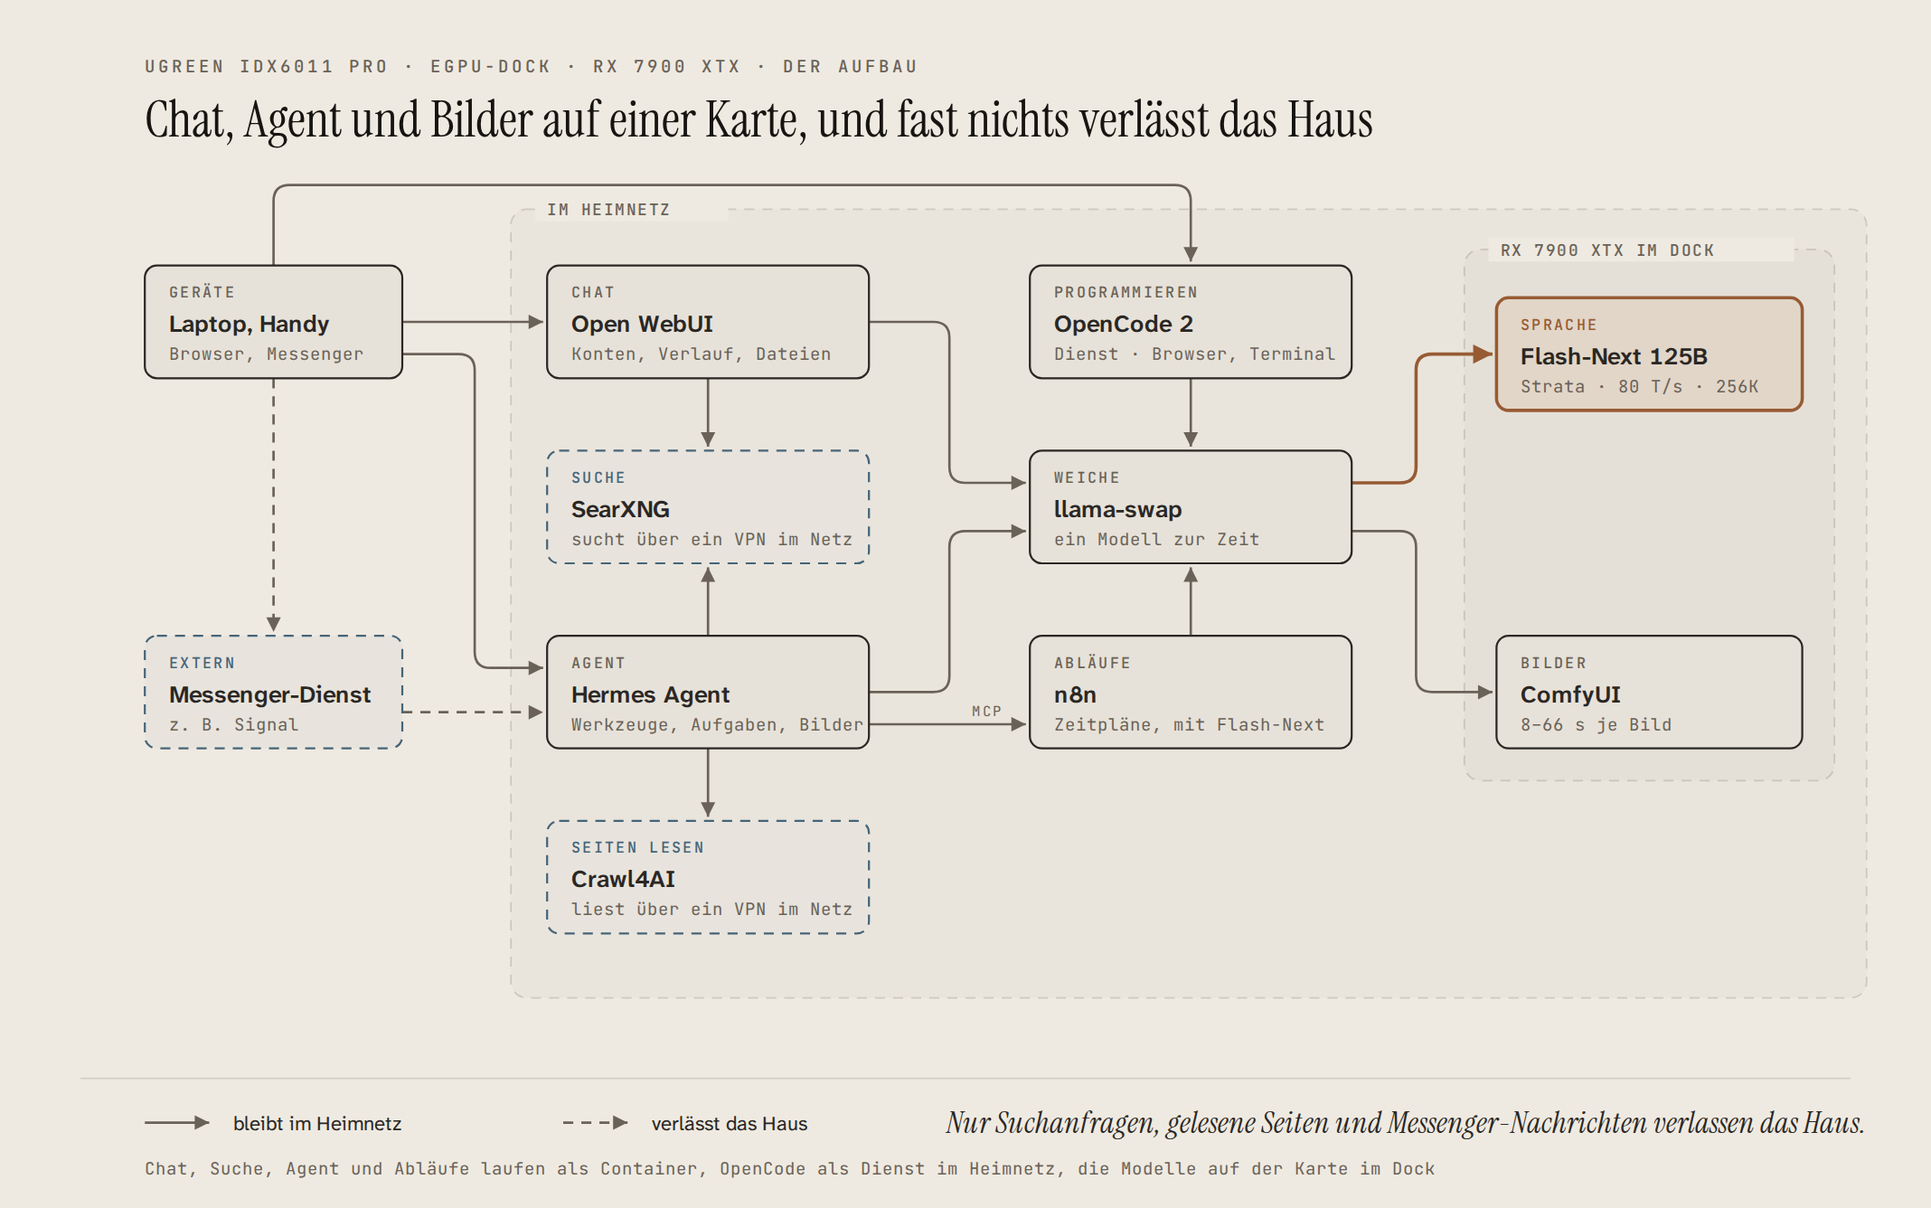
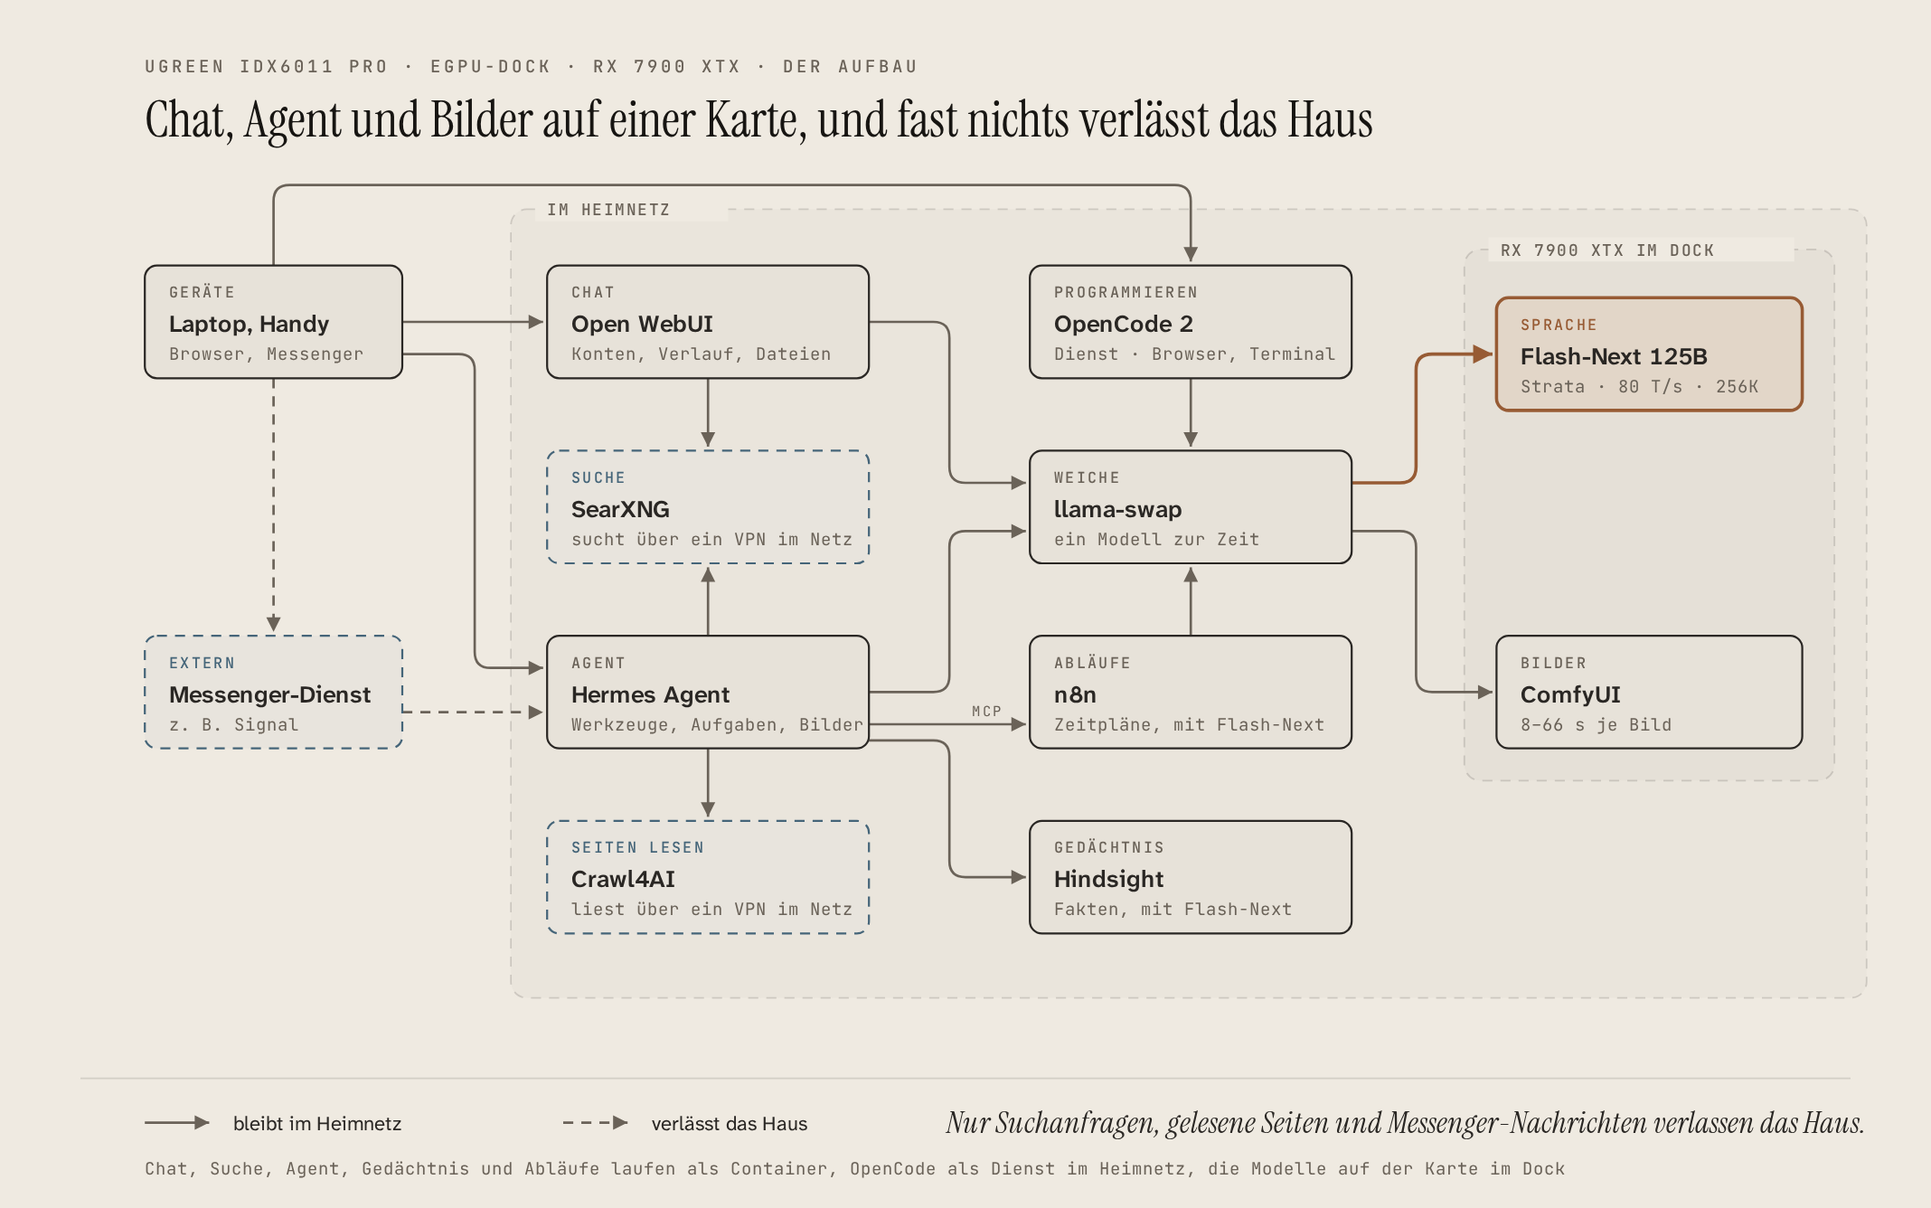
Aufbau: Hindsight als Gedächtnis des Agenten im Schaubild und in der Agenten-Karte

diff --git a/bilder/html/aufbau-en.html b/bilder/html/aufbau-en.html
@@ -18,7 +18,7 @@
   <div class="frame"><div class="scroll">
     <svg viewBox="0 0 960 600" xmlns="http://www.w3.org/2000/svg" role="img" aria-labelledby="aufbau-en-title aufbau-en-desc">
       <title id="aufbau-en-title">Chat, agent and pictures on one card, and almost nothing lea</title>
-      <desc id="aufbau-en-desc">Laptop and phone talk to Open WebUI and to Hermes Agent in the home network, to the agent also through a messenger service; both ask llama-swap, as does OpenCode 2, which runs as a service in the home network and is used from the browser or the terminal. Hermes starts fixed workflows in n8n through MCP, which in turn ask Flash-Next through llama-swap. llama-swap loads either the language model or ComfyUI on the RX 7900 XTX. The agent reads web pages through Crawl4AI on the iDX, which fetches them through a VPN. Only search queries, the pages the agent reads and messenger messages leave the house.</desc>
+      <desc id="aufbau-en-desc">Laptop and phone talk to Open WebUI and to Hermes Agent in the home network, to the agent also through a messenger service; both ask llama-swap, as does OpenCode 2, which runs as a service in the home network and is used from the browser or the terminal. Hermes starts fixed workflows in n8n through MCP, which in turn ask Flash-Next through llama-swap. What the agent learns from conversations is stored by Hindsight in the home network; the same language model extracts the facts. llama-swap loads either the language model or ComfyUI on the RX 7900 XTX. The agent reads web pages through Crawl4AI on the iDX, which fetches them through a VPN. Only search queries, the pages the agent reads and messenger messages leave the house.</desc>
       <rect width="960" height="600" fill="#efeae1"/>
       <text x="72.0" y="36.0" fill="#6a6258" font-size="8.5" font-family="'JetBrains Mono', Consolas, monospace" font-weight="500" letter-spacing="0.16em">UGREEN IDX6011 PRO · EGPU DOCK · RX 7900 XTX · THE SETUP</text>
       <text x="72.0" y="68.0" fill="#171512" font-size="25" font-family="'Instrument Serif', Georgia, serif">Chat, agent and pictures on one card, and almost nothing leaves the house</text>
@@ -40,6 +40,7 @@
       <path d="M 432,160 H 464 Q 472,160 472,168 V 232 Q 472,240 480,240 H 510" fill="none" stroke="#6a6258" stroke-width="1.2" marker-end="url(#pf-en)"/>
       <path d="M 432,344 H 464 Q 472,344 472,336 V 272 Q 472,264 480,264 H 510" fill="none" stroke="#6a6258" stroke-width="1.2" marker-end="url(#pf-en)"/>
       <path d="M 432,360 H 510" fill="none" stroke="#6a6258" stroke-width="1.2" marker-end="url(#pf-en)"/>
+      <path d="M 432,368 H 464 Q 472,368 472,376 V 428 Q 472,436 480,436 H 510" fill="none" stroke="#6a6258" stroke-width="1.2" marker-end="url(#pf-en)"/>
       <path d="M 592,316 V 282" fill="none" stroke="#6a6258" stroke-width="1.2" marker-end="url(#pf-en)"/>
       <path d="M 592,188 V 222" fill="none" stroke="#6a6258" stroke-width="1.2" marker-end="url(#pf-en)"/>
       <path d="M 672,240 H 696 Q 704,240 704,232 V 184 Q 704,176 712,176 H 742" fill="none" stroke="#975b34" stroke-width="1.6" marker-end="url(#pf-en-a)"/>
@@ -60,6 +61,11 @@
       <text x="524.0" y="332.0" fill="#6a6258" font-size="7.5" font-family="'JetBrains Mono', Consolas, monospace" font-weight="500" letter-spacing="0.14em">WORKFLOWS</text>
       <text x="524.0" y="349.0" fill="#2a2724" font-size="12" font-family="'Atkinson Hyperlegible Next', 'Segoe UI', sans-serif" font-weight="600">n8n</text>
       <text x="524.0" y="363.0" fill="#6a6258" font-size="8.5" font-family="'JetBrains Mono', Consolas, monospace">schedules, with Flash-Next</text>
+      <rect x="512" y="408" width="160" height="56" rx="6" fill="#efeae1"/>
+      <rect x="512" y="408" width="160" height="56" rx="6" fill="#2a2724" fill-opacity="0.04" stroke="#2a2724" stroke-width="1"/>
+      <text x="524.0" y="424.0" fill="#6a6258" font-size="7.5" font-family="'JetBrains Mono', Consolas, monospace" font-weight="500" letter-spacing="0.14em">MEMORY</text>
+      <text x="524.0" y="441.0" fill="#2a2724" font-size="12" font-family="'Atkinson Hyperlegible Next', 'Segoe UI', sans-serif" font-weight="600">Hindsight</text>
+      <text x="524.0" y="455.0" fill="#6a6258" font-size="8.5" font-family="'JetBrains Mono', Consolas, monospace">facts, with Flash-Next</text>
       <rect x="512" y="132" width="160" height="56" rx="6" fill="#efeae1"/>
       <rect x="512" y="132" width="160" height="56" rx="6" fill="#2a2724" fill-opacity="0.04" stroke="#2a2724" stroke-width="1"/>
       <text x="524.0" y="148.0" fill="#6a6258" font-size="7.5" font-family="'JetBrains Mono', Consolas, monospace" font-weight="500" letter-spacing="0.14em">CODING</text>
@@ -106,7 +112,7 @@
       <path d="M 280,558 H 312" fill="none" stroke="#6a6258" stroke-width="1.2" stroke-dasharray="5,4" marker-end="url(#pf-en)"/>
       <text x="324.0" y="562.0" fill="#2a2724" font-size="10" font-family="'Atkinson Hyperlegible Next', 'Segoe UI', sans-serif">leaves the house</text>
       <text x="928.0" y="563.0" fill="#2a2724" font-size="15" font-family="'Instrument Serif', Georgia, serif" text-anchor="end" font-style="italic">Only search queries, pages the agent reads and messenger messages leave the house.</text>
-      <text x="72.0" y="584.0" fill="#6a6258" font-size="8.5" font-family="'JetBrains Mono', Consolas, monospace">Chat, search, agent and workflows run as containers, OpenCode as a service in the home network, the models on the card in the dock</text>
+      <text x="72.0" y="584.0" fill="#6a6258" font-size="8.5" font-family="'JetBrains Mono', Consolas, monospace">Chat, search, agent, memory and workflows run as containers, OpenCode as a service in the home network, the models on the card in the dock</text>
     </svg>
   </div></div>
 </body>

diff --git a/bilder/html/aufbau-de.html b/bilder/html/aufbau-de.html
@@ -18,7 +18,7 @@
   <div class="frame"><div class="scroll">
     <svg viewBox="0 0 960 600" xmlns="http://www.w3.org/2000/svg" role="img" aria-labelledby="aufbau-de-title aufbau-de-desc">
       <title id="aufbau-de-title">Chat, Agent und Bilder auf einer Karte, und fast nichts verl</title>
-      <desc id="aufbau-de-desc">Laptop und Handy sprechen im Heimnetz mit Open WebUI und mit Hermes Agent, mit dem Agenten auch über einen Messenger-Dienst; beide fragen llama-swap, ebenso OpenCode 2, das als Dienst im Heimnetz läuft und vom Browser oder Terminal aus bedient wird. Hermes startet über MCP feste Abläufe in n8n, die ihrerseits Flash-Next über llama-swap fragen. llama-swap lädt auf der RX 7900 XTX entweder das Sprachmodell oder ComfyUI. Webseiten liest der Agent über Crawl4AI auf der iDX, das sie über ein VPN abruft. Nur Suchanfragen, die vom Agenten gelesenen Seiten und Messenger-Nachrichten verlassen das Haus.</desc>
+      <desc id="aufbau-de-desc">Laptop und Handy sprechen im Heimnetz mit Open WebUI und mit Hermes Agent, mit dem Agenten auch über einen Messenger-Dienst; beide fragen llama-swap, ebenso OpenCode 2, das als Dienst im Heimnetz läuft und vom Browser oder Terminal aus bedient wird. Hermes startet über MCP feste Abläufe in n8n, die ihrerseits Flash-Next über llama-swap fragen. Was der Agent aus Gesprächen lernt, speichert Hindsight im Heimnetz; die Fakten zieht dasselbe Sprachmodell heraus. llama-swap lädt auf der RX 7900 XTX entweder das Sprachmodell oder ComfyUI. Webseiten liest der Agent über Crawl4AI auf der iDX, das sie über ein VPN abruft. Nur Suchanfragen, die vom Agenten gelesenen Seiten und Messenger-Nachrichten verlassen das Haus.</desc>
       <rect width="960" height="600" fill="#efeae1"/>
       <text x="72.0" y="36.0" fill="#6a6258" font-size="8.5" font-family="'JetBrains Mono', Consolas, monospace" font-weight="500" letter-spacing="0.16em">UGREEN IDX6011 PRO · EGPU-DOCK · RX 7900 XTX · DER AUFBAU</text>
       <text x="72.0" y="68.0" fill="#171512" font-size="25" font-family="'Instrument Serif', Georgia, serif">Chat, Agent und Bilder auf einer Karte, und fast nichts verlässt das Haus</text>
@@ -40,6 +40,7 @@
       <path d="M 432,160 H 464 Q 472,160 472,168 V 232 Q 472,240 480,240 H 510" fill="none" stroke="#6a6258" stroke-width="1.2" marker-end="url(#pf-de)"/>
       <path d="M 432,344 H 464 Q 472,344 472,336 V 272 Q 472,264 480,264 H 510" fill="none" stroke="#6a6258" stroke-width="1.2" marker-end="url(#pf-de)"/>
       <path d="M 432,360 H 510" fill="none" stroke="#6a6258" stroke-width="1.2" marker-end="url(#pf-de)"/>
+      <path d="M 432,368 H 464 Q 472,368 472,376 V 428 Q 472,436 480,436 H 510" fill="none" stroke="#6a6258" stroke-width="1.2" marker-end="url(#pf-de)"/>
       <path d="M 592,316 V 282" fill="none" stroke="#6a6258" stroke-width="1.2" marker-end="url(#pf-de)"/>
       <path d="M 592,188 V 222" fill="none" stroke="#6a6258" stroke-width="1.2" marker-end="url(#pf-de)"/>
       <path d="M 672,240 H 696 Q 704,240 704,232 V 184 Q 704,176 712,176 H 742" fill="none" stroke="#975b34" stroke-width="1.6" marker-end="url(#pf-de-a)"/>
@@ -60,6 +61,11 @@
       <text x="524.0" y="332.0" fill="#6a6258" font-size="7.5" font-family="'JetBrains Mono', Consolas, monospace" font-weight="500" letter-spacing="0.14em">ABLÄUFE</text>
       <text x="524.0" y="349.0" fill="#2a2724" font-size="12" font-family="'Atkinson Hyperlegible Next', 'Segoe UI', sans-serif" font-weight="600">n8n</text>
       <text x="524.0" y="363.0" fill="#6a6258" font-size="8.5" font-family="'JetBrains Mono', Consolas, monospace">Zeitpläne, mit Flash-Next</text>
+      <rect x="512" y="408" width="160" height="56" rx="6" fill="#efeae1"/>
+      <rect x="512" y="408" width="160" height="56" rx="6" fill="#2a2724" fill-opacity="0.04" stroke="#2a2724" stroke-width="1"/>
+      <text x="524.0" y="424.0" fill="#6a6258" font-size="7.5" font-family="'JetBrains Mono', Consolas, monospace" font-weight="500" letter-spacing="0.14em">GEDÄCHTNIS</text>
+      <text x="524.0" y="441.0" fill="#2a2724" font-size="12" font-family="'Atkinson Hyperlegible Next', 'Segoe UI', sans-serif" font-weight="600">Hindsight</text>
+      <text x="524.0" y="455.0" fill="#6a6258" font-size="8.5" font-family="'JetBrains Mono', Consolas, monospace">Fakten, mit Flash-Next</text>
       <rect x="512" y="132" width="160" height="56" rx="6" fill="#efeae1"/>
       <rect x="512" y="132" width="160" height="56" rx="6" fill="#2a2724" fill-opacity="0.04" stroke="#2a2724" stroke-width="1"/>
       <text x="524.0" y="148.0" fill="#6a6258" font-size="7.5" font-family="'JetBrains Mono', Consolas, monospace" font-weight="500" letter-spacing="0.14em">PROGRAMMIEREN</text>
@@ -106,7 +112,7 @@
       <path d="M 280,558 H 312" fill="none" stroke="#6a6258" stroke-width="1.2" stroke-dasharray="5,4" marker-end="url(#pf-de)"/>
       <text x="324.0" y="562.0" fill="#2a2724" font-size="10" font-family="'Atkinson Hyperlegible Next', 'Segoe UI', sans-serif">verlässt das Haus</text>
       <text x="928.0" y="563.0" fill="#2a2724" font-size="15" font-family="'Instrument Serif', Georgia, serif" text-anchor="end" font-style="italic">Nur Suchanfragen, gelesene Seiten und Messenger-Nachrichten verlassen das Haus.</text>
-      <text x="72.0" y="584.0" fill="#6a6258" font-size="8.5" font-family="'JetBrains Mono', Consolas, monospace">Chat, Suche, Agent und Abläufe laufen als Container, OpenCode als Dienst im Heimnetz, die Modelle auf der Karte im Dock</text>
+      <text x="72.0" y="584.0" fill="#6a6258" font-size="8.5" font-family="'JetBrains Mono', Consolas, monospace">Chat, Suche, Agent, Gedächtnis und Abläufe laufen als Container, OpenCode als Dienst im Heimnetz, die Modelle auf der Karte im Dock</text>
     </svg>
   </div></div>
 </body>

diff --git a/messen/diagramme.py b/messen/diagramme.py
@@ -1181,6 +1181,7 @@ def aufbau(d, sp):
     pfeil(f"M 432,{r1 + 28} H 464 Q 472,{r1 + 28} 472,{r1 + 36} V {r2 + 8} Q 472,{r2 + 16} 480,{r2 + 16} H 510")   # Open WebUI -> llama-swap
     pfeil(f"M 432,{r3 + 28} H 464 Q 472,{r3 + 28} 472,{r3 + 20} V {r2 + 48} Q 472,{r2 + 40} 480,{r2 + 40} H 510")  # Hermes -> llama-swap
     pfeil(f"M 432,{r3 + 44} H 510")                                                                     # Hermes -> n8n (MCP), knapp unter dem Pfeil zu llama-swap
+    pfeil(f"M 432,{r3 + 52} H 464 Q 472,{r3 + 52} 472,{r3 + 60} V {r4 + 20} Q 472,{r4 + 28} 480,{r4 + 28} H 510")  # Hermes -> Hindsight (Gedächtnis, Frank 26.11.2026)
     pfeil(f"M 592,{r3} V {r2 + 58}")                                                                    # n8n -> llama-swap: die Abläufe fragen Flash-Next (Frank 22.11.2026)
     pfeil(f"M 592,{r1 + 56} V {r2 - 2}")                                                                    # OpenCode 2 -> llama-swap, von oben (Zeile von Open WebUI, Frank 22.11.2026)
     pfeil(f"M 672,{r2 + 16} H 696 Q 704,{r2 + 16} 704,{r2 + 8} V 184 Q 704,176 712,176 H 742", fokus=True)        # llama-swap -> Sprachmodell
@@ -1189,6 +1190,7 @@ def aufbau(d, sp):
     knoten(A_, r3, T("extern", "external"), T("Messenger-Dienst", "Messenger service"), T("z. B. Signal", "e.g. Signal"), "extern", w=128)
     s.text(491, r3 + 40, "MCP", 7, MUTED, "mono", "middle", sperr="0.1em")                              # Beschriftung des Pfeils Hermes -> n8n
     knoten(C_, r3, T("Abläufe", "Workflows"), "n8n", T("Zeitpläne, mit Flash-Next", "schedules, with Flash-Next"))   # seit 22.11.2026, Hermes ruft es per MCP, die Abläufe fragen Flash-Next
+    knoten(C_, r4, T("Gedächtnis", "Memory"), "Hindsight", T("Fakten, mit Flash-Next", "facts, with Flash-Next"))   # seit 26.11.2026 im Bild; zieht Fakten mit dem Sprachmodell, Suche und Reranker auf der CPU
     knoten(C_, r1, T("Programmieren", "Coding"), "OpenCode 2", T("Dienst · Browser, Terminal", "service · browser, terminal"))
     knoten(B_, r1, "Chat", "Open WebUI", T("Konten, Verlauf, Dateien", "accounts, history, files"))
     knoten(B_, r2, T("Suche", "Search"), "SearXNG", T("sucht über ein VPN im Netz", "searches through a VPN"), "extern")
@@ -1205,10 +1207,10 @@ def aufbau(d, sp):
     s.roh(f'<path d="M 280,{y + 22} H 312" fill="none" stroke="{MUTED}" stroke-width="1.2" stroke-dasharray="5,4" marker-end="url(#{pf})"/>')
     s.text(324, y + 26, T("verlässt das Haus", "leaves the house"), 10, INK, "sans")
     s.text(R, y + 27, T("Nur Suchanfragen, gelesene Seiten und Messenger-Nachrichten verlassen das Haus.", "Only search queries, pages the agent reads and messenger messages leave the house."), 15, INK, "serif", "end", kursiv=True)
-    s.text(L, y + 48, T("Chat, Suche, Agent und Abläufe laufen als Container, OpenCode als Dienst im Heimnetz, die Modelle auf der Karte im Dock",
-                        "Chat, search, agent and workflows run as containers, OpenCode as a service in the home network, the models on the card in the dock"), 8.5, MUTED, "mono")
-    return "aufbau", titel, T("Laptop und Handy sprechen im Heimnetz mit Open WebUI und mit Hermes Agent, mit dem Agenten auch über einen Messenger-Dienst; beide fragen llama-swap, ebenso OpenCode 2, das als Dienst im Heimnetz läuft und vom Browser oder Terminal aus bedient wird. Hermes startet über MCP feste Abläufe in n8n, die ihrerseits Flash-Next über llama-swap fragen. llama-swap lädt auf der RX 7900 XTX entweder das Sprachmodell oder ComfyUI. Webseiten liest der Agent über Crawl4AI auf der iDX, das sie über ein VPN abruft. Nur Suchanfragen, die vom Agenten gelesenen Seiten und Messenger-Nachrichten verlassen das Haus.",
-                              "Laptop and phone talk to Open WebUI and to Hermes Agent in the home network, to the agent also through a messenger service; both ask llama-swap, as does OpenCode 2, which runs as a service in the home network and is used from the browser or the terminal. Hermes starts fixed workflows in n8n through MCP, which in turn ask Flash-Next through llama-swap. llama-swap loads either the language model or ComfyUI on the RX 7900 XTX. The agent reads web pages through Crawl4AI on the iDX, which fetches them through a VPN. Only search queries, the pages the agent reads and messenger messages leave the house."), s, 600
+    s.text(L, y + 48, T("Chat, Suche, Agent, Gedächtnis und Abläufe laufen als Container, OpenCode als Dienst im Heimnetz, die Modelle auf der Karte im Dock",
+                        "Chat, search, agent, memory and workflows run as containers, OpenCode as a service in the home network, the models on the card in the dock"), 8.5, MUTED, "mono")
+    return "aufbau", titel, T("Laptop und Handy sprechen im Heimnetz mit Open WebUI und mit Hermes Agent, mit dem Agenten auch über einen Messenger-Dienst; beide fragen llama-swap, ebenso OpenCode 2, das als Dienst im Heimnetz läuft und vom Browser oder Terminal aus bedient wird. Hermes startet über MCP feste Abläufe in n8n, die ihrerseits Flash-Next über llama-swap fragen. Was der Agent aus Gesprächen lernt, speichert Hindsight im Heimnetz; die Fakten zieht dasselbe Sprachmodell heraus. llama-swap lädt auf der RX 7900 XTX entweder das Sprachmodell oder ComfyUI. Webseiten liest der Agent über Crawl4AI auf der iDX, das sie über ein VPN abruft. Nur Suchanfragen, die vom Agenten gelesenen Seiten und Messenger-Nachrichten verlassen das Haus.",
+                              "Laptop and phone talk to Open WebUI and to Hermes Agent in the home network, to the agent also through a messenger service; both ask llama-swap, as does OpenCode 2, which runs as a service in the home network and is used from the browser or the terminal. Hermes starts fixed workflows in n8n through MCP, which in turn ask Flash-Next through llama-swap. What the agent learns from conversations is stored by Hindsight in the home network; the same language model extracts the facts. llama-swap loads either the language model or ComfyUI on the RX 7900 XTX. The agent reads web pages through Crawl4AI on the iDX, which fetches them through a VPN. Only search queries, the pages the agent reads and messenger messages leave the house."), s, 600
 
 
 def parallel(d, sp):

diff --git a/web/bau.py b/web/bau.py
@@ -221,8 +221,8 @@ def seite(sp):
            "Like a chat service from the cloud, except that the answers come from your own card: one account per person, history, file upload, web search through an own SearXNG."),
          T(f"erstes Wort nach einer Pause: <b>{z(statistics.median(kalt), sp, 0)} s</b> · danach rund 75 Token/s", f"first word after a break: <b>{z(statistics.median(kalt), sp, 0)} s</b> · then about 75 tokens/s")),
         ("Agent", "Hermes Agent",
-         T("Ein Agent, den man im Browser oder über den Messenger erreicht, der eigene Werkzeuge bedient und Aufgaben nach Zeitplan erledigt, mit bis zu 256K Token Kontext. Regeln im Systemprompt und ein kleiner Prüfer halten ihn vom Erfinden ab.",
-           "An agent you reach in the browser or through a messenger, that uses its own tools and runs tasks on a schedule, with up to 256K tokens of context. Rules in the system prompt and a small checker keep it from making things up."),
+         T("Ein Agent, den man im Browser oder über den Messenger erreicht, der eigene Werkzeuge bedient und Aufgaben nach Zeitplan erledigt, mit bis zu 256K Token Kontext. Regeln im Systemprompt und ein kleiner Prüfer halten ihn vom Erfinden ab. Was er aus Gesprächen lernt, merkt sich Hindsight, ebenfalls im Haus.",
+           "An agent you reach in the browser or through a messenger, that uses its own tools and runs tasks on a schedule, with up to 256K tokens of context. Rules in the system prompt and a small checker keep it from making things up. What it learns from conversations is kept by Hindsight, also at home."),
          T("Erfundenes erkannt mit Regel: <b>104 von 120</b>", "made-up things recognised with the rule: <b>104 of 120</b>")),
         ("Messenger", "Signal",
          T("Dem Agenten vom Handy schreiben wie einem Kontakt, auch von unterwegs. Ich empfehle und bevorzuge Signal, weil die Nachrichten dort Ende-zu-Ende-verschlüsselt sind. Telegram und Discord habe ich ebenfalls erfolgreich getestet.",
